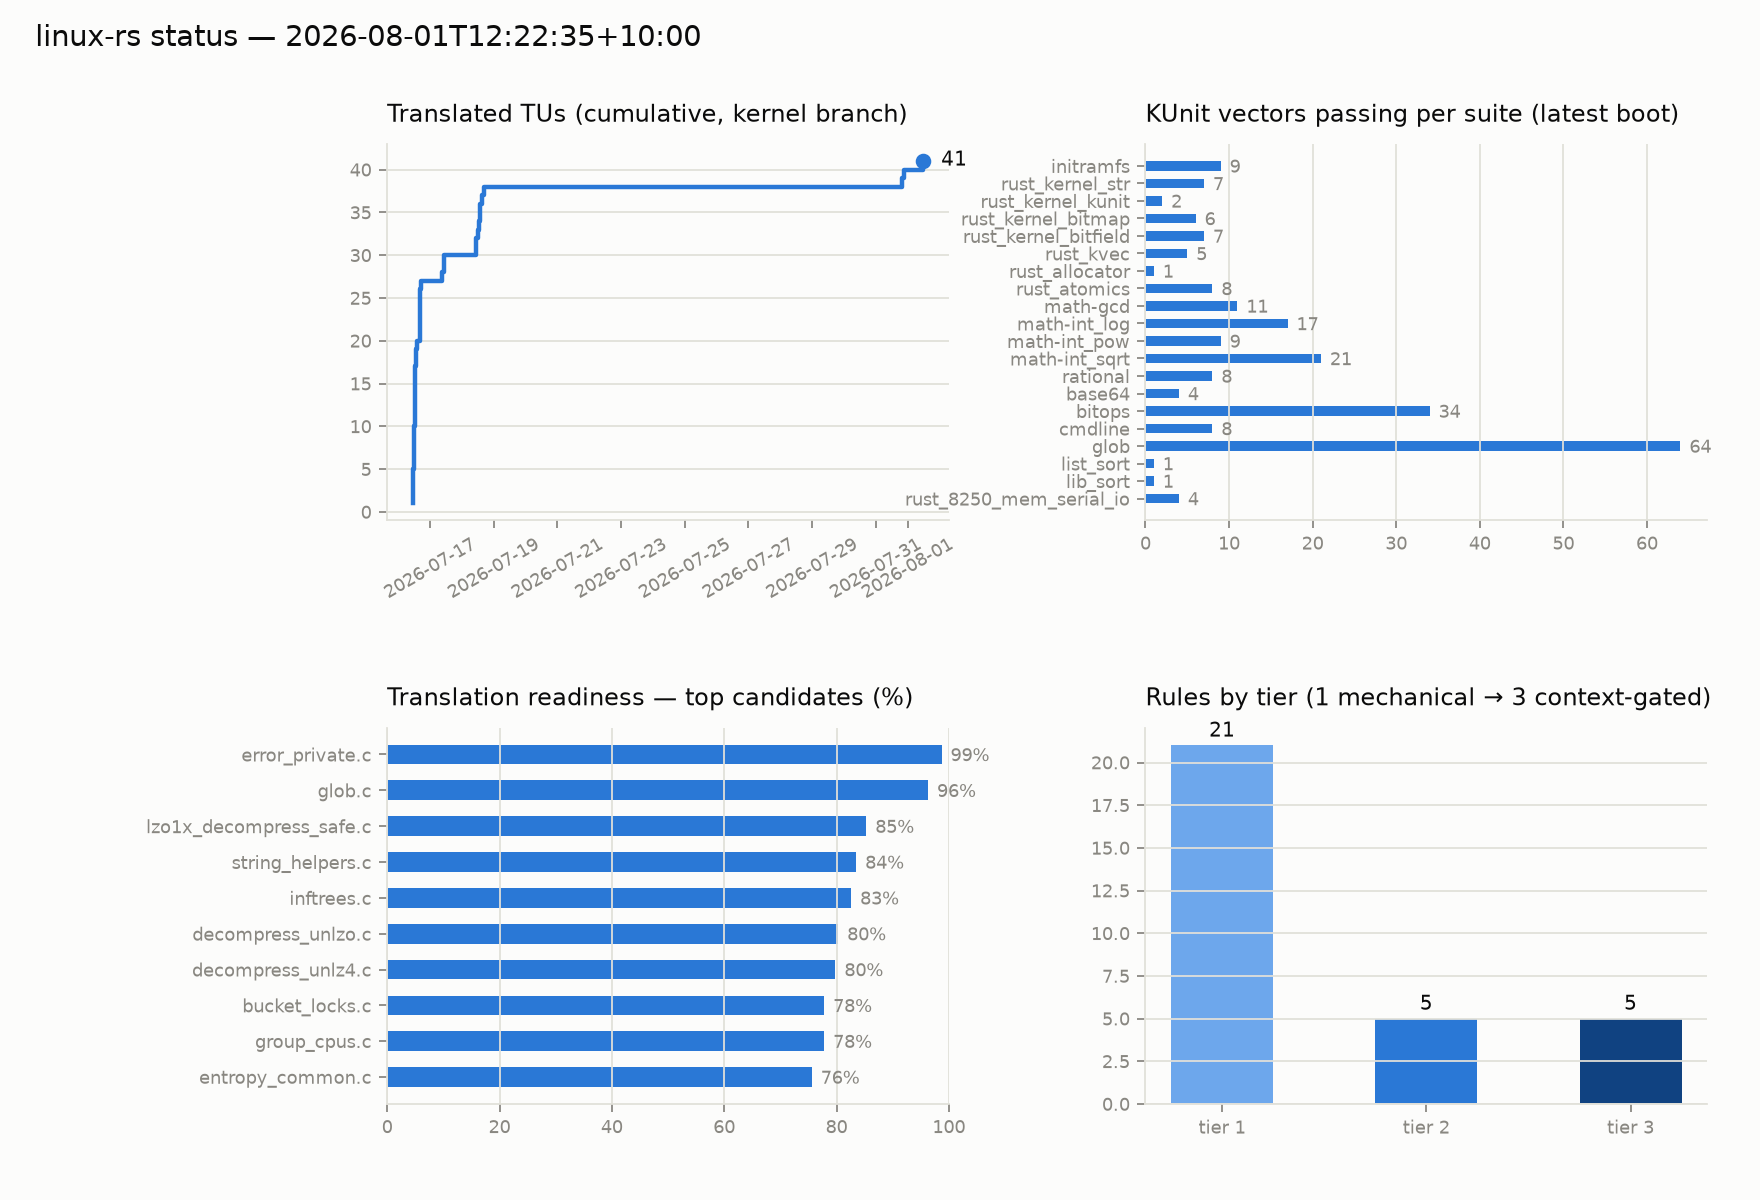
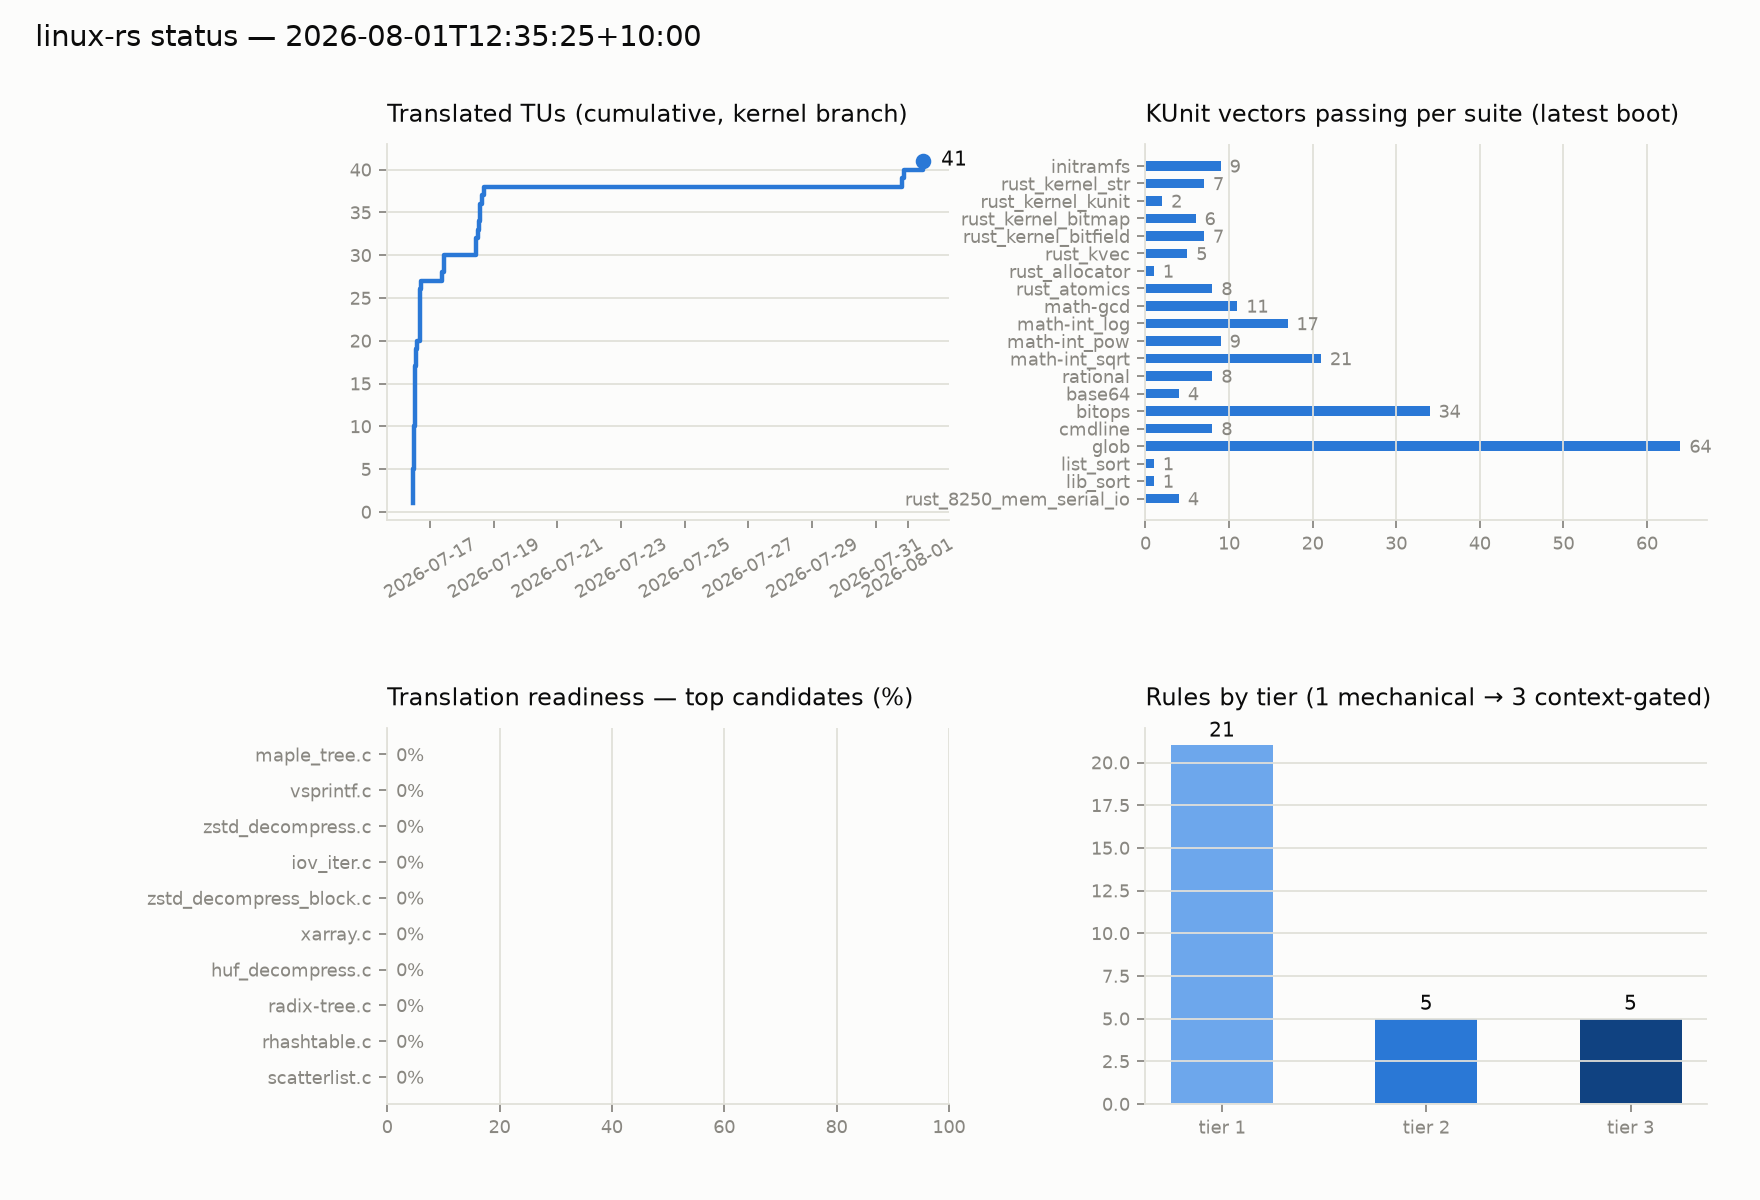
boot-history + streams.md: reflect 34-file hand-translation revert (11e280e)

Changed region(s): [[0.0938, 0.6167, 0.5625, 0.925]]

diff --git a/docs/streams.md b/docs/streams.md
@@ -158,11 +158,13 @@ and flags anything not under the managed dir as stray; `remove <name>
 
 ## 2. c2rust-boot-blocker
 
-**Goal:** get real Rust code (hand-translated or c2rust-transpiled) actually
-*executing* in linux-riscv's live boot path — not just compiling in
-isolation. A file compiling clean in the standalone `rustc` check
-(stream 1's gate) does **not** mean it's wired into the kernel build; this
-stream is specifically about closing that gap.
+**Goal:** get real, c2rust-transpiled Rust code actually *executing* in
+linux-riscv's live boot path — not just compiling in isolation. A file
+compiling clean in the standalone `rustc` check (stream 1's gate) does
+**not** mean it's wired into the kernel build; this stream is specifically
+about closing that gap. (Not hand-translated — see stream 4's retirement
+note; this stream's input is c2rust's own output, boot-screened per
+`awto-au/linux-rs#28`.)
 
 **Where the work lives:** `linux-riscv/` commits directly (kernel-tree
 changes, boot-tested); driver-integration specifics live in
@@ -257,23 +259,38 @@ Don't attempt both in one pass.
 the shell prompt, nothing else) — that's the only thing blocking this
 stream right now.
 
-## 4. hand-translation
+## 4. hand-translation — RETIRED, do not use (2026-08-01)
 
-**Goal:** the project's original mission — translate `lib/`-style C files to
-Rust by hand, one TU at a time, each individually oracle-verified and
-boot-verified. High-confidence, slower than the c2rust streams.
+**This stream is the wrong mission and must not be worked.** The project
+builds a transpiler (the `awtoau/c2rust` fork) — it does not hand-port the
+Linux kernel to Rust. A hand-written `*_rs.rs` file is not project output;
+it's a false data point that makes the corpus look more translated than
+the transpiler actually achieved, and the effort spent writing it is spent
+on the wrong deliverable. See `docs/HISTORY.md`'s 2026-08-01 entry and
+[[feedback_no_hand_translation]] for the incident this retirement follows
+(3 files hand-translated under this section's old text before the
+contradiction with the project's own standing rule was caught and all 3
+reverted).
 
-**Where the work lives:** `linux-riscv/lib/*_rs.rs` + `bench/diff_*.{c,rs}`
-pairs + `patches/*.patch`.
-**Where priority comes from:** `dev.py readiness` — ranks untranslated TUs
-by how much of their required vocabulary (called functions, statement
-shapes) is already covered by landed translations, so each new TU is the
-cheapest real next step, not an arbitrary pick.
-**Verification gate:** diff-oracle byte-identical (where feasible) +
-`dev.py check` full boot pass.
-**Current top item:** `dev.py readiness` and take the top row.
+**What used to be here:** "translate `lib/`-style C files to Rust by hand,
+one TU at a time" — this framing is retired, full stop, not narrowed. It
+does not matter how small, pure, or low-risk a function looks (a
+lookup-table switch, a well-tested algorithm) — hand-writing its Rust
+translation is still out of scope, because the point was never "does a
+Rust version of this file exist," it's "can the transpiler produce one."
+Checked directly against real c2rust output for the two most recently
+reverted files (`lib/glob.c`, `lib/zstd/common/error_private.c`,
+`tmp/c2rust-reference-check/`): both transpile completely, including
+`lib/glob.c`'s goto-heavy backtracking (c2rust lowers it to labeled
+loops/breaks correctly) — there was no transpiler gap excusing the hand
+translation in either case, just unchecked assumption that it would be
+too hard for c2rust.
 
-Landed so far: 32 TUs.
+**If a translated Rust version of a specific file is wanted:** that's
+either stream 1 (find/fix why c2rust's raw output isn't good enough — file
+a real issue against the fork) or stream 2 (wire up already-good c2rust
+output as a boot-screening candidate, `awto-au/linux-rs#28`'s process).
+Never a new hand-written stream.
 
 ## 5. tooling/infra
 

diff --git a/docs/STATUS.md b/docs/STATUS.md
@@ -1,16 +1,16 @@
-# Status — 2026-08-01T12:22:35+10:00
+# Status — 2026-08-01T12:35:25+10:00
 
 ![status](status/status.png)
 
 - Translated TUs: **41**   ·   KUnit: **20 suites, 224 vectors** green   ·   Rules: **31** (t1 21 / t2 5 / t3 5)
-- Wired into live boot path: **6 functions across 1 file(s)** (vs. **38** total TUs landed) — see [docs/streams.md](streams.md)'s stream 2 ("c2rust-boot-blocker") for why this is the harder, more important milestone: a standalone `lib/` swap compiling clean is not the same as real Rust executing at a live, pre-existing C call site.
+- Wired into live boot path: **6 functions across 1 file(s)** (vs. **4** total TUs landed) — see [docs/streams.md](streams.md)'s stream 2 ("c2rust-boot-blocker") for why this is the harder, more important milestone: a standalone `lib/` swap compiling clean is not the same as real Rust executing at a live, pre-existing C call site.
 
 ## Boot-path integration patterns (live-derived, not hand-maintained)
 
 | pattern | count | detection |
 |---|---|---|
 | In-place wired (`#ifdef CONFIG_RUST` C wrapper calls a `*_rs` fn) | **6 fns / 1 file(s)** | regex scan of `linux-riscv/**/*.c` for `#ifdef CONFIG_RUST` blocks calling a `*_rs(...)` function |
-| Whole-file `lib/` swap (Makefile points straight at `*_rs.rs`, no call-site wrapper) | **38** | `*_rs.rs` TUs whose sibling `.c` (if any) has no `#ifdef CONFIG_RUST` wrapper calling into it |
+| Whole-file `lib/` swap (Makefile points straight at `*_rs.rs`, no call-site wrapper) | **4** | `*_rs.rs` TUs whose sibling `.c` (if any) has no `#ifdef CONFIG_RUST` wrapper calling into it |
 
 <details><summary>Wired functions (detail)</summary>
 
@@ -49,15 +49,15 @@
 
 | TU | readiness |
 |---|---|
-| lib/zstd/common/error_private.c | 98.7% |
-| lib/glob.c | 96.3% |
-| lib/lzo/lzo1x_decompress_safe.c | 85.3% |
-| lib/string_helpers.c | 83.5% |
-| lib/zlib_inflate/inftrees.c | 82.6% |
-| lib/decompress_unlzo.c | 80.3% |
-| lib/decompress_unlz4.c | 79.8% |
-| lib/bucket_locks.c | 77.8% |
-| lib/group_cpus.c | 77.8% |
-| lib/zstd/common/entropy_common.c | 75.6% |
+| lib/maple_tree.c | 0.0% |
+| lib/vsprintf.c | 0.0% |
+| lib/zstd/decompress/zstd_decompress.c | 0.0% |
+| lib/iov_iter.c | 0.0% |
+| lib/zstd/decompress/zstd_decompress_block.c | 0.0% |
+| lib/xarray.c | 0.0% |
+| lib/zstd/decompress/huf_decompress.c | 0.0% |
+| lib/radix-tree.c | 0.0% |
+| lib/rhashtable.c | 0.0% |
+| lib/scatterlist.c | 0.0% |
 
 _Auto-generated by `scripts/report.py` (via `dev.py check`); history in [status/history.csv](status/history.csv)._
